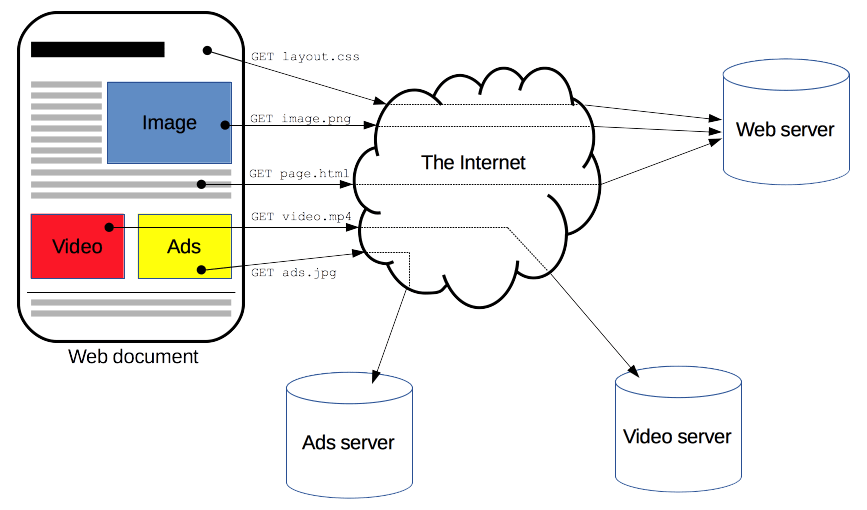
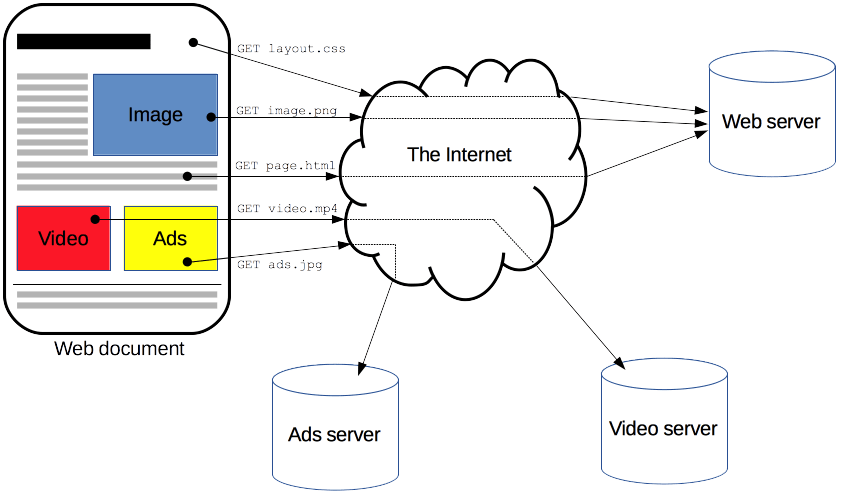
Write about HTTP Requests

diff --git a/chapters/projekt-02-nel-and-related-technologies.tex b/chapters/projekt-02-nel-and-related-technologies.tex
@@ -156,7 +156,7 @@ Hyperlinky sa vyskytujú ako súčasti obsahu získavaného dokumentu, a to vo f
 
 \begin{figure}[htb]
 \begin{center}
- \includegraphics[scale=0.49]{obrazky-figures/fetching_a_page.png}
+ \includegraphics[scale=0.55]{obrazky-figures/fetching_a_page.png}
  \caption{\centering Vizualizácia webového prostredia. Za využitia infraštruktúry internetu prepája pomocou hyperlinkov dokumenty, ktoré možno na webe prehliadať.}
  \label{img:fetching-a-page}
 \end{center}
@@ -167,20 +167,21 @@ Hyperlinky sa vyskytujú ako súčasti obsahu získavaného dokumentu, a to vo f
 \pagebreak
 
 \subsection{Navigácia na webe}
+\label{navigacia-na-webe}
 
 Hyperlinky na iné dokumenty sú formované ako reťazcová hodnota nazývaná Uniform Resource Locator (jednotný lokátor zdrojov, ďalej už iba \textbf{URL}).
 Vďaka hodnotám URL je možné odkazovať sa na obsah webu, prepájať rôzne dokumenty medzi sebou, a tým pádom web navigovať.
 Typická hodnota URL sa skladá zo:
 \begin{enumerate}
-    \item schémy - označenie protokolu používaného na sieťovú komunikáciu medzi servermi,
-    \item domény
+    \item schémy - označenie \textbf{protokolu} používaného na sieťovú komunikáciu medzi servermi,
+    \item adresy web servera, teda jeho domény (domény sú popísané v kapitole \ref{domeny})
     \item a cesty k uloženému dokumentu.
 \end{enumerate}
 
 \begin{figure}[htb]
 \begin{center}
- \includegraphics[scale=0.6]{obrazky-figures/the-anatomy-of-a-url.png}\label{fig:figure1}
- \caption{\centering Základná štruktúra hodnoty URL. Hodnoty bývajú rôzne a skladajú sa taktiež z niekoľkých ďalších častí, no tie však nie je potrebné pre účely tejto práce rozoberať.}
+ \includegraphics[scale=0.52]{obrazky-figures/the-anatomy-of-a-url.png}\label{fig:figure1}
+ \caption{\centering Základná štruktúra hodnoty URL. Prvá časť (1.) označuje komunikačný protokol, druhá (2.) doménu web servera a tretia (3.) cestu k dokumentu. Hodnoty bývajú rôzne a môžu sa skladať z niekoľkých ďalších častí, no tie však nie je potrebné pre účely tejto práce rozoberať.}
  \label{img:urlstructure}
 \end{center}
 \end{figure}
@@ -210,7 +211,7 @@ Protokol funguje na základe klient-server komunikácie, kde klient a server sú
 \begin{itemize}
     \item \textbf{Klient} zakladá spojenie so serverom za účelom zasielania jednej alebo viacerých \mbox{žiadostí}. 
     
-    Program implementujúci komunikačné rozhranie pre rolu klienta sa nazýva tiež \textbf{User Agent} (skrátene UA --- agent používateľa). Pre bežného návštevníka webu ako UA \mbox{figuruje} \textbf{webový prehliadač} nainštalovaný na jeho zariadení. Webovým prehliadačom sa viac venuje kapitola REF. % \ref{}
+    Program implementujúci komunikačné rozhranie pre rolu klienta sa nazýva tiež \textbf{User Agent} (skrátene UA, slovensky -- agent používateľa). Pre bežného návštevníka webu ako UA \mbox{figuruje} \textbf{webový prehliadač} nainštalovaný na jeho zariadení. Webovým prehliadačom sa viac venuje kapitola \ref{webovy-prehliadac}.
     
     \item \textbf{Server} prijíma spojenia aby obslúžil žiadosti tým, že na ne zasiela prislúchajúce odpovede.
 
@@ -226,46 +227,86 @@ Protokol funguje na základe klient-server komunikácie, kde klient a server sú
 \end{center}
 \end{figure}
 
-Správy HTTP protokolu sú štruktúrované bloky textu. 
-ABNF...
-Správa nadväzujúca HTTP spojenie --- žiadosť, má nasledovný obsah:
+\subsubsection{HTTP žiadosť}
+
+Správy HTTP protokolu sú štruktúrované bloky textu.
+Správa nadväzujúca HTTP spojenie, teda žiadosť, má nasledovný obsah:
 \begin{enumerate}
-    \item metódu
-    \item cestu k požadovanému dokumentu
-    \item verziu protokolu HTTP použitého na nadviazanie komunikácie
-    \item \textbf{HTTP hlavičky}
-    \item prípadný obsah žiadosti
+    \item Metóda žiadosti
+
+    Metóda žiadosti indikuje operáciu, ktorú klient chce aplikovať na žiadaný zdroj.
+    Podľa metódy server zistí, aký výsledok úspešne aplikovanej operácie očakáva klient v odpovedi.
+
+    Dôležité metódy sú najmä:
+    \begin{itemize}
+        \item GET --- klient žiada zdroj v jeho aktuálnom stave. 
+        \item POST --- klient chce vykonať špecifický proces s obsahom, ktorý pridá k žiadosti. 
+        Bežne sa jedná napríklad o nahranie nového zdroju z klienta na server.
+    \end{itemize}
+    
+    \item Cesta k požadovanému zdroju
+
+    Jedná sa tu o cestu spomínanú v kapitole \ref{navigacia-na-webe}, bod 3. v popise príkladnej URL (viď obrázok \ref{img:urlstructure}).
+    Cesta môže byť symbolická, teda určená pre interpretáciu samotným serverom (podľa jeho konfigurácie) ako napríklad \code{/glossaries}, alebo priamo označujúca konkrétny zdroj, napríklad \code{/glossaries.txt}.  
+ 
+    \item Verzia protokolu HTTP použitého na nadviazanie a priebeh komunikácie
+    
+    \item Sekcia polí s ďalšími informáciami a nastaveniami komunikácie --- \textbf{HTTP Headers}
+    
+    Táto hovorovo nazývaná sekcia \textbf{hlavičiek} obsahuje páry názvov polí a ich priradených hodnôt. 
+    Hlavičky slúžia ako definície možností a iných potrebných informácií pri komunikácií medzi zariadeniami.
+    Pre názvy hlavičiek existuje register \textit{Hypertext Transfer Protocol (HTTP) Field Name Registry},
+    v ktorom sa uvádzajú oficiálne hlavičky použiteľné pri komunikácií HTTP. 
+
+    Príkladom potrebnej informácie pre HTTP žiadosť je hlavička \code{Host}, ktorej hodnota musí reprezentovať doménu cieľového web servera. \todo{nevedia co je domena}  
+    
+    \item Prípadný obsah žiadosti
+
+    Napríklad obsah pridaný k žiadosti s metódou POST. 
+    Obsah sa pridáva pod sekciu HTTP hlavičiek, od ktorej sa oddeľuje práznym riadkom (znakmi \code{\textbackslash r\textbackslash n}).
+
+    \item Zakončenie správy --- dva prázdne riadky (znaky \code{\textbackslash r\textbackslash n\textbackslash r\textbackslash n})
+    
 \end{enumerate}
 
 
 \begin{figure}[htb]
 \begin{center}
     \includegraphics[scale=0.6]{obrazky-figures/http_request.png}
-    \caption{\centering Vizualizácia konceptu komunikácie pomocou protokolu HTTP. Klient zasiela požiadavku na server a server mu naspäť posiela odpoveď.}
+    \caption{\centering Štruktúra HTTP žiadosti. Jednotlivé časti požiadavky sú na obrázku označené číslami. Postupne, prvá časť (1.) predstavuje metódu žiadosti, nasleduje cesta \mbox{k zdroju (2.)} --- v tomto prípade relatívna cesta, ktorú môže web server interpretovať podľa svojej konfigurácie. Ďalšia je vyznačená verzia protokolu HTTP (3.), pod ktorou je v poslednom rade umiestnená sekcia s HTTP hlavičkami (4.).}
     \label{fig:http-request}
 \end{center}
 \end{figure}
 
+\subsubsection{HTTP odpoveď}
+
+asdjfkagfjkasdgfgjksaf
+
+\begin{figure}[htb]
+\begin{center}
+    \includegraphics[scale=0.6]{obrazky-figures/http_response.png}
+    \caption{\centering Štruktúra HTTP odpovede.}
+    \label{fig:http-response}
+\end{center}
+\end{figure}
+
+
+
 % \# Komunikácia
-% Hlavičky
-% Pod-zdroje
 % Status
 
 % Endpoint...
 % HTTPS
 
-% \# Existujúce komunikačné riešenia
-% Webová stránka
-%     Webová podstránka
-%     Priamy Odkaz                    OK
-%     Spätný Odkaz ???
-% Dosiahnuteľnosť Web Serveru
+
+
 
 % Network Partition Key ??
 % https://httpwg.org/specs/rfc7230.html, https://httpwg.org/specs/rfc7231.html
 % Security - HTTPS, https://www.w3.org/TR/secure-contexts/
 
 \subsection{Domény}
+\label{domeny}
 % DOMENY
 % DNS ?
 
@@ -275,11 +316,19 @@ Správa nadväzujúca HTTP spojenie --- žiadosť, má nasledovný obsah:
 % Media Type
 % JSON spec = https://www.rfc-editor.org/rfc/rfc7159
 
+% \# Existujúce komunikačné riešenia
+% Webová stránka
+%     Webová podstránka
+%     Priamy Odkaz                    OK
+%     Spätný Odkaz ???
+
 \subsection{Webový prehliadač}
+\label{webovy-prehliadac}
 % JS - https://tc39.es/ecma262/multipage/
 
 
 \section{Zlyhania v komunikácií Klient-Server}
+% Dosiahnuteľnosť Web Serveru
 \begin{itemize}
     \item General intro and info
     \item DNS
